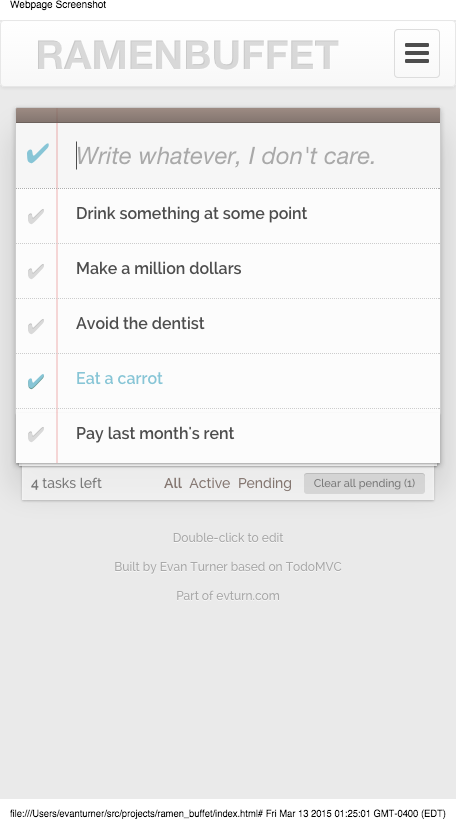
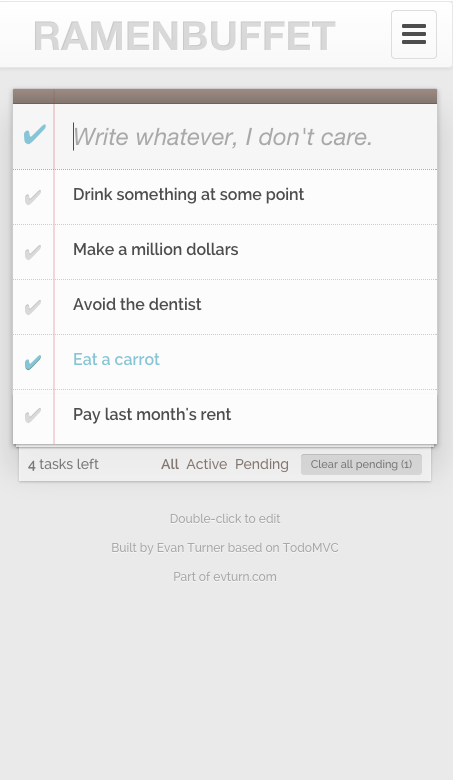
updated README with mobile screenshot

diff --git a/README.md b/README.md
@@ -1,24 +1,20 @@
 # Ramen Buffet
 
-Ramen Buffet
-
-### Task management 
-### See everything on your agenda just by glancing
-### See where something is in a process
-### All updates in real-time
-### No setup
+* Task management 
+* See everything on your agenda just by glancing
+* See where something is in a process
+* All updates in real-time
+* No setup
 
 ![Alt text](https://raw.githubusercontent.com/evturn/ramen-buffet/master/assets/ramen-buffet.png)
 
-Bottomless task management
+### Future Implementations
 
-## Future Implementations
-
-### Task management 
-### See everything on your agenda just by glancing
-### See where something is in a process
-### All updates in real-time
-### No setup
-### And this mobile version below:
+* Task management 
+* See everything on your agenda just by glancing
+* See where something is in a process
+* All updates in real-time
+* No setup
+* And this mobile version below:
 
 ![Alt text](https://raw.githubusercontent.com/evturn/ramen-buffet/master/assets/ramen-buffet-mobile.png)
